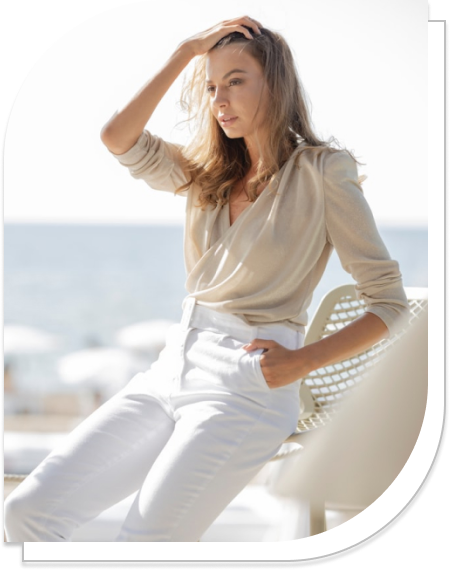
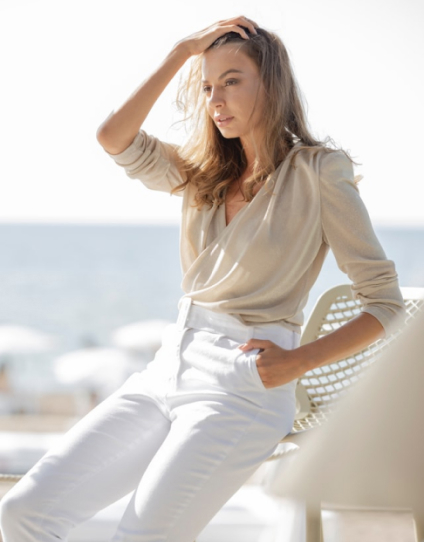
fixed mentors notes

diff --git a/lesson_6/index.html b/lesson_6/index.html
@@ -47,7 +47,6 @@
 					</p>
 					<ul class="lounge-furniture__list">
 						<li class="lounge-furniture__item">
-							<img class="lounge-furniture__img" src="img/mark.png" alt="#" width="50" height="50">
 							<p class="lounge-furniture__text">
 								Прямі дивани. Такі дивани вважаються класикою. Вони підходять для віталень будь-яких форм та розмірів.
 								Прямий диван
@@ -60,7 +59,6 @@
 							</p>
 						</li>
 						<li class="lounge-furniture__item">
-							<img class="lounge-furniture__img" src="img/mark.png" alt="#" width="50" height="50">
 							<p class="lounge-furniture__text">
 								Кутові дивани Кутові дивани вважаються найзручнішими та комфортнішими. Вони ідеально підійдуть для
 								приємного проведення
@@ -70,7 +68,6 @@
 							</p>
 						</li>
 						<li class="lounge-furniture__item">
-							<img class="lounge-furniture__img" src="img/mark.png" alt="#" width="50" height="50">
 							<p class="lounge-furniture__text">
 								Тахти. Тахта - це одна з варіацій дивана, але стильніша і мінімалістична. Виглядають тахти дуже незвично
 								і можуть
@@ -80,7 +77,6 @@
 							</p>
 						</li>
 						<li class="lounge-furniture__item">
-							<img class="lounge-furniture__img" src="img/mark.png" alt="#" width="50" height="50">
 							<p class="lounge-furniture__text">
 								Крісла. Крісло – це особливий предмет інтер'єру. Сучасні дизайнери не часто використовують його,
 								вважаючи застарілим,
@@ -90,7 +86,6 @@
 							</p>
 						</li>
 						<li class="lounge-furniture__item">
-							<img class="lounge-furniture__img" src="img/mark.png" alt="#" width="50" height="50">
 							<p class="lounge-furniture__text">
 								Набір меблів. Комплект м'яких меблів – це відмінне рішення для тих, хто хоче меблювати свою вітальню не
 								лише диваном, а
@@ -122,12 +117,11 @@
 							Why settle for ordinary when you can explore the extraordinary? Join us and discover why EduPlay is not just the best –
 							it's the magical key to unlocking creativity for your kids.
 						</p>
-						<div class="background-button">
-							<a lang="en" href="google.com">Explore our subjects</a>
-						</div>
+						<a class="background-button" lang="en" href="google.com">Explore our subjects</a>
+						
 					</div>
 					<div class="background-image">
-						<img src="img/kid-on-books.png" alt="#" width="515" height="495">
+						<img src="img/kid-on-books.png" alt="#">
 					</div>
 				</div>
 			</section>
@@ -143,12 +137,12 @@
 							You can explore ans shop many differnt collection
 							from various barands here.
 						</p>
-						<div class="hero-button">
-							<a lang="en" href="google.com" class="hero-button__link">Shop Now</a>
-						</div>
+						<a class="hero-button" lang="en" href="google.com" class="hero-button__link">Shop Now</a>
 					</div>
 					<div class="hero-right">
-						<img src="img/hero-img.jpg" alt="#" width="424" height="542">
+						<div class="hero-img">
+							<img src="img/hero-img.jpg" alt="#">
+						</div>
 					</div>
 				</div>
 			</section>

diff --git a/lesson_6/css/style.css b/lesson_6/css/style.css
@@ -9,9 +9,6 @@ body {
 	color: #0d1216;
 }
 
-.page {
-	padding: 30px;
-}
 .example {
 	padding: 20px;
 }
@@ -535,9 +532,9 @@ padding(margine)-inline - додає відступи зверху та зниз
 }
 
 .lounge-furniture__item {
-	display: flex;
 	margin-bottom: 20px;
 	padding-left: 30px;
+	background: url(../img/mark.png) no-repeat;
 }
 
 .lounge-furniture__img {
@@ -548,6 +545,7 @@ padding(margine)-inline - додає відступи зверху та зниз
 	font-size: 16px;
 	font-weight: 400;
 	line-height: 1.875em;
+	padding-left: 20px;
 }
 
 .lounge-text__conclusion {
@@ -562,11 +560,9 @@ padding(margine)-inline - додає відступи зверху та зниз
 
 .eduplay {
 	background-image: url(../img/explore-courses-background.png);
-	background-repeat: no-repeat;
 	background-position: center;
 	background-size: cover;
 }
-
 
 .background {
 	display: inline-block;
@@ -595,7 +591,7 @@ padding(margine)-inline - додає відступи зверху та зниз
 }
 
 .background-button {
-	padding: 12px 14px 12px 45px;
+	padding: 13px 20px 12px 40px;;
 	width: 220px;
 	height: 50px;
 
@@ -603,12 +599,12 @@ padding(margine)-inline - додає відступи зверху та зниз
 	font-size: 16px;
 	font-weight: 700;
 	line-height: 1.56em;
-	background-color: #fff;
-	border-radius: 8px 8px 8px 8px;
-	background: #FFF url(../img/button-label-x2.png) left center no-repeat;
+	border-radius: 8px;
+	background: #FFF url(../img/button-label-x2.png) no-repeat 8% / 20px;
 }
 
 .background-image {
+	max-width: 515px;
 	display: inline-block;
 	vertical-align: top;
 	padding-top: 70px;
@@ -621,8 +617,8 @@ padding(margine)-inline - додає відступи зверху та зниз
 
 .collections {
 	background: 
-	url(../img/flower-1.png) no-repeat left bottom, 
-	url(../img/flower-2.png) no-repeat right,
+	url(../img/flower-1.png) no-repeat 0 85% / 150px, 
+	url(../img/flower-2.png) no-repeat 100% 45% / 150px,
 	#f5f9f9;
 	padding-top: 135px;
 	padding-bottom: 135px;
@@ -631,8 +627,9 @@ padding(margine)-inline - додає відступи зверху та зниз
 
 .hero-left {
 	display: inline-block;
-	max-width: 705px;
-	padding: 155px 0 60px 0;
+	max-width: 730px;
+	padding: 35px 0 60px 0;
+	margin-right: 90px;
 }
 
 .collections-title {
@@ -652,16 +649,27 @@ padding(margine)-inline - додає відступи зверху та зниз
 	line-height: 1.83em;
 }
 .hero-button {
-	padding: 20px 14px 12px 45px;
-	width: 200px;
-	height: 70px;
+	padding: 25px 28px 22px 64px;
 	color: #fff;
 	font-size: 29px;
-	background: #000 url(../img/hero-icon.png) left center no-repeat;
+	background: #000 url(../img/hero-icon.png) no-repeat 10% / 30px;
 	
 }
+
 .hero-right {
 	display: inline-block;
+	/* padding-left: 40px; */
 	vertical-align: top;
-	padding-top: 50px
+}
+
+.hero-img {
+	max-width: 340px;
+	box-shadow: inset -2px -1px 7px 5px hsl(0deg 0% 0% / 25%);
+	border-radius: 160px 0;
+}
+
+.hero-img img {
+	width: 100%;
+	margin: -20px 18px 20px -18px;
+	border-radius: 160px 0;
 }
